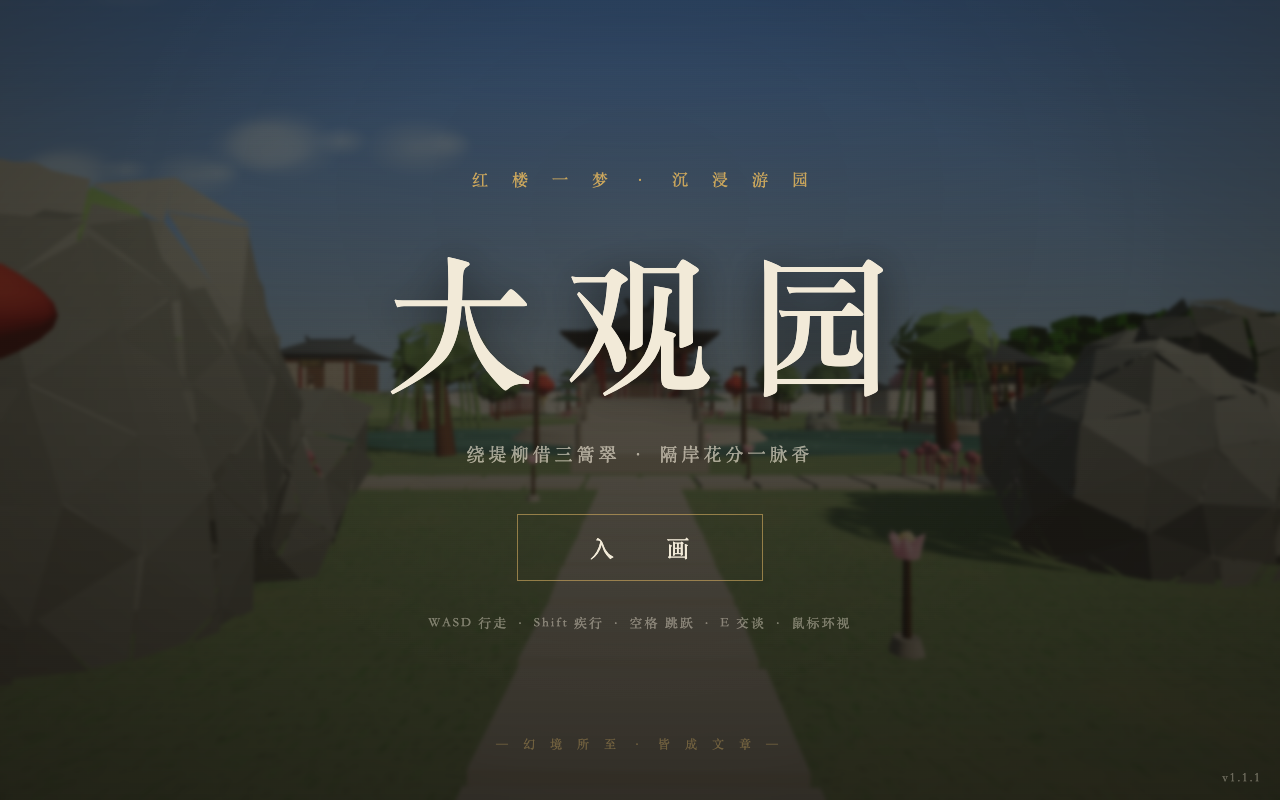
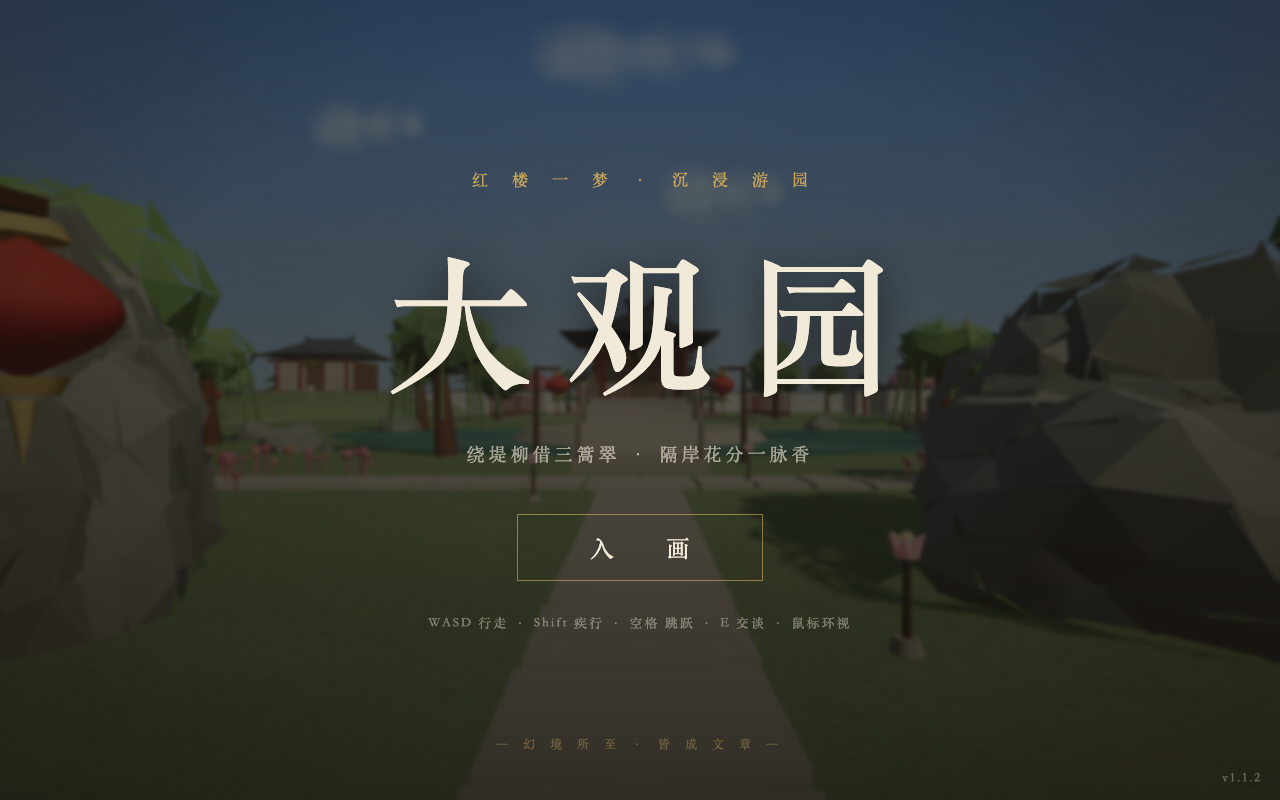
fix: v1.1.2 手机端标题遮罩不消失（旧缓存劫持）修复
- 启动时注销遗留 Service Worker 并清空 CacheStorage，
  杜绝同域旧部署长期劫持 index.html 造成新旧样式脚本混搭
- 标题屏隐藏改内联 display:none 兜底，优先级高于一切残留 CSS
- 补 -webkit-backdrop-filter 前缀；版本角标空值守卫；引导提示间距

diff --git a/src/core/engine.js b/src/core/engine.js
@@ -6,9 +6,10 @@ import * as THREE from 'three';
  */
 export class Engine {
   constructor(canvas) {
+    this.canvas = canvas;
     this.renderer = new THREE.WebGLRenderer({ canvas, antialias: true });
     this.renderer.setPixelRatio(Math.min(window.devicePixelRatio, 2));
-    this.renderer.setSize(window.innerWidth, window.innerHeight);
+    this.renderer.setSize(window.innerWidth, window.innerHeight, false);
     this.renderer.shadowMap.enabled = true;
     this.renderer.shadowMap.type = THREE.PCFShadowMap;
     this.renderer.toneMapping = THREE.ACESFilmicToneMapping;
@@ -48,7 +49,28 @@ export class Engine {
     this.lanternMats = [];
     this.celebrationT = 0; // 集章圆满：灯笼齐明计时
 
-    window.addEventListener('resize', () => this.onResize());
+    window.addEventListener('resize', () => this.fitToScreen());
+    // 移动浏览器：旋转、地址栏收放、微信 webview 入场过渡均可能绕过 resize
+    window.addEventListener('orientationchange', () => {
+      this.fitToScreen();
+      setTimeout(() => this.fitToScreen(), 350);
+    });
+    window.visualViewport?.addEventListener('resize', () => this.fitToScreen());
+    // 入场后兜底两次重适配（微信滑入动画结束时视口才稳定）
+    setTimeout(() => this.fitToScreen(), 300);
+    setTimeout(() => this.fitToScreen(), 1200);
+  }
+
+  // 画布显示尺寸交给 CSS（100dvw/dvh），这里只同步绘图缓冲与相机比例
+  fitToScreen() {
+    const w = this.canvas.clientWidth || window.innerWidth;
+    const h = this.canvas.clientHeight || window.innerHeight;
+    const size = new THREE.Vector2();
+    this.renderer.getSize(size);
+    if (Math.round(size.x) === w && Math.round(size.y) === h && this.camera.aspect === w / h) return;
+    this.renderer.setSize(w, h, false);
+    this.camera.aspect = w / h;
+    this.camera.updateProjectionMatrix();
   }
 
   buildSky() {
@@ -157,9 +179,7 @@ export class Engine {
   }
 
   onResize() {
-    this.camera.aspect = window.innerWidth / window.innerHeight;
-    this.camera.updateProjectionMatrix();
-    this.renderer.setSize(window.innerWidth, window.innerHeight);
+    this.fitToScreen();
   }
 
   toggleCycle() {

diff --git a/src/main.js b/src/main.js
@@ -7,8 +7,22 @@ import { NPCManager } from './world/npc.js';
 import { HUD } from './ui/hud.js';
 import { QuestManager } from './ui/quest.js';
 
+// 旧部署可能遗留 Service Worker / CacheStorage，劫持 index.html 造成新旧混合的错乱页面；
+// 启动时一律注销并清空，强制后续访问走网络最新版本
+if ('serviceWorker' in navigator) {
+  navigator.serviceWorker.getRegistrations()
+    .then((regs) => regs.forEach((r) => r.unregister()))
+    .catch(() => {});
+}
+if ('caches' in window) {
+  caches.keys()
+    .then((keys) => keys.forEach((k) => caches.delete(k)))
+    .catch(() => {});
+}
+
 const canvas = document.getElementById('scene');
-document.getElementById('version-tag').textContent = `v${version}`;
+const versionTag = document.getElementById('version-tag');
+if (versionTag) versionTag.textContent = `v${version}`;
 
 const engine = new Engine(canvas);
 const garden = new Garden(engine.scene);
@@ -44,6 +58,7 @@ engine.scene.traverse((o) => {
 let prevMs = performance.now();
 let elapsed = 0;
 let firstFrame = true;
+let fitCheckT = 0;
 
 function animate() {
   requestAnimationFrame(animate);
@@ -52,6 +67,13 @@ function animate() {
   prevMs = now;
   elapsed += dt;
   const t = elapsed;
+
+  // 兜底自愈：周期性校验画布与视口是否失配（移动 webview 可能漏发 resize）
+  fitCheckT += dt;
+  if (fitCheckT > 0.5) {
+    fitCheckT = 0;
+    engine.fitToScreen();
+  }
 
   player.update(dt);
   npcMgr.update(dt, player.pos, t);

diff --git a/src/style.css b/src/style.css
@@ -19,7 +19,12 @@ html, body {
   color: var(--ink);
 }
 
-#scene { position: fixed; inset: 0; width: 100%; height: 100%; display: block; }
+#scene {
+  position: fixed; inset: 0;
+  width: 100vw; height: 100vh;
+  width: 100dvw; height: 100dvh; /* 动态视口：移动浏览器地址栏收放时随之伸缩 */
+  display: block;
+}
 
 #vignette {
   position: fixed; inset: 0; pointer-events: none; z-index: 2;
@@ -58,6 +63,8 @@ html, body {
   background:
     radial-gradient(ellipse at 50% 30%, rgba(242, 234, 216, 0.06), transparent 60%),
     linear-gradient(180deg, rgba(23, 20, 16, 0.55) 0%, rgba(23, 20, 16, 0.82) 100%);
+  -webkit-backdrop-filter: blur(2px);
+  -webkit-backdrop-filter: blur(2px);
   backdrop-filter: blur(2px);
   display: flex; flex-direction: column; align-items: center; justify-content: space-between;
   padding: 8vh 20px 6vh;
@@ -115,7 +122,7 @@ html, body {
   #quest-tracker { top: auto; bottom: calc(150px + env(safe-area-inset-bottom)); left: 12px; padding: 8px 12px; max-width: 62vw; }
   #tracker-progress { font-size: 11px; }
   #tracker-hint { font-size: 12px; }
-  #tutorial-hint { font-size: 14px; padding: 10px 18px; letter-spacing: 2px; bottom: 26vh; max-width: 86vw; white-space: normal; text-align: center; }
+  #tutorial-hint { font-size: 14px; padding: 10px 18px; letter-spacing: 2px; bottom: 32vh; max-width: 86vw; white-space: normal; text-align: center; }
 }
 
 /* ---------- HUD ---------- */

diff --git a/src/ui/hud.js b/src/ui/hud.js
@@ -144,7 +144,10 @@ export class HUD {
   start() {
     this.started = true;
     this.audio.start();
-    this.$('title-screen').classList.add('hidden');
+    // 内联 display 兜底：残留旧缓存 CSS 可能不认 .hidden，导致标题遮罩盖在游戏上不消失
+    const title = this.$('title-screen');
+    title.classList.add('hidden');
+    title.style.display = 'none';
     this.$('hud').classList.remove('hidden');
     if (this.player.isTouchDevice) {
       this.$('touch-ui').classList.remove('hidden');

diff --git a/CHANGELOG.md b/CHANGELOG.md
@@ -10,6 +10,25 @@
 
 ---
 
+## [1.1.2] - 2026-07-31
+
+### 修复
+- **手机端画布两侧黑边**：`renderer.setSize` 写入的内联像素样式覆盖 CSS，微信等移动 webview 入场过渡/地址栏收放改变视口而不触发 resize，画布被冻结在旧宽度。改为：画布显示尺寸交由 CSS `100dvw/100dvh`，`setSize(updateStyle=false)` 仅同步绘图缓冲；补充 `orientationchange`/`visualViewport` 监听、入场 300ms/1200ms 两次兜底重适配，以及主循环每 0.5s 的自愈校验
+
+---
+
+## [1.1.2] - 2026-07-31
+
+### 修复
+- **手机端标题遮罩罩住游戏画面**：同域旧部署残留的 Service Worker/CacheStorage 会长期劫持 index.html，旧样式与新脚本混搭导致点「入画」后标题遮罩（灰色半透明层）无法隐藏、整屏覆盖游戏；启动时一律注销遗留 Service Worker 并清空 CacheStorage
+- 标题屏隐藏改用内联 `display:none` 兜底，优先级高于一切残留样式表
+- 补充 `-webkit-backdrop-filter` 前缀（旧版 iOS Safari）；版本角标空值守卫；引导提示与任务追踪间距加大
+
+### 工程
+- 仓库提交者统一为 juicyzhou
+
+---
+
 ## [1.1.1] - 2026-07-31
 
 ### 修复
